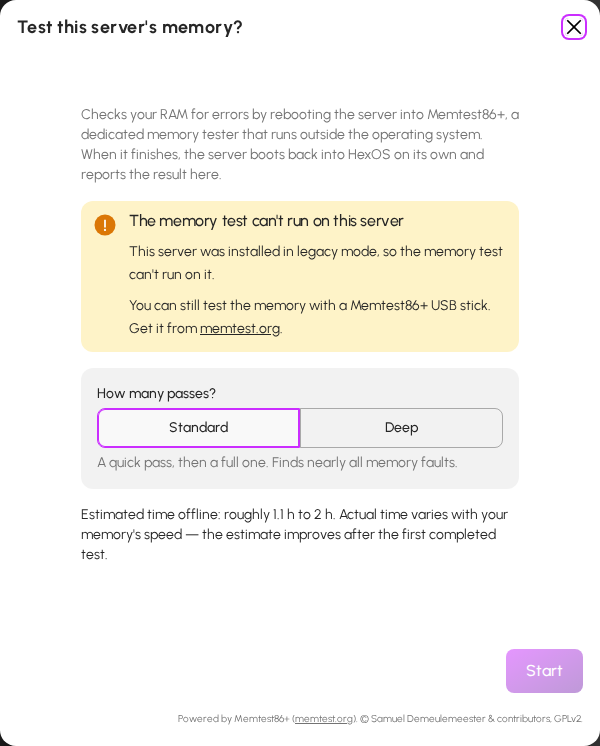
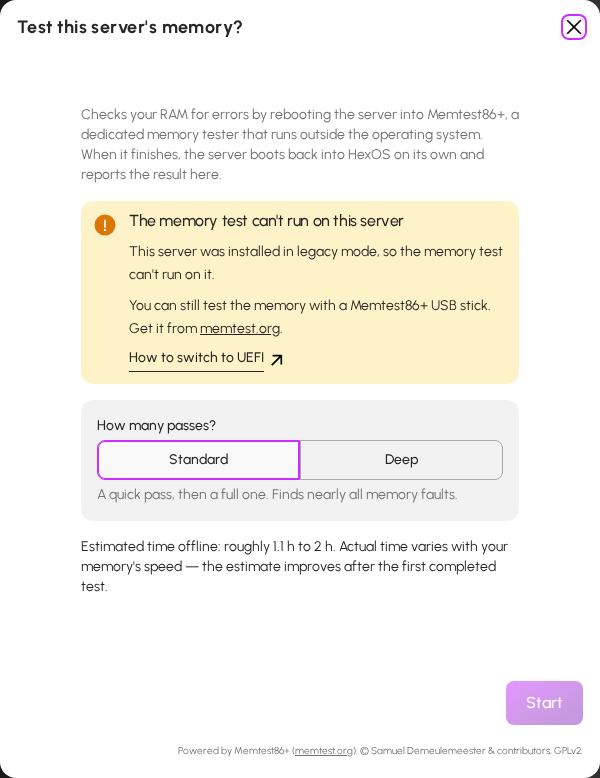
docs: Show the How to switch to UEFI link in the memory test messages

diff --git a/troubleshooting/uefi-boot-mode.md b/troubleshooting/uefi-boot-mode.md
@@ -58,7 +58,7 @@ If HexOS has already tested your model of motherboard, the message says which fi
 
 ### When you test memory
 
-**Test memory** is on the **Memory** info panel, and needs Expert mode turned on in **Settings**. If you click **Test memory** on a server installed in legacy mode, HexOS shows **The memory test can't run on this server** and the **Start** button stays off. You can still test the memory with a Memtest86+ USB drive. The message links to [memtest.org](https://memtest.org), where you can download it.
+**Test memory** is on the **Memory** info panel, and needs Expert mode turned on in **Settings**. If you click **Test memory** on a server installed in legacy mode, HexOS shows **The memory test can't run on this server** and the **Start** button stays off. You can still test the memory with a Memtest86+ USB drive. The message links to [memtest.org](https://memtest.org), where you can download it, and to this page through **How to switch to UEFI**.
 
 <details>
 <summary> The memory test can't run on this server </summary>
@@ -68,7 +68,7 @@ If HexOS has already tested your model of motherboard, the message says which fi
 
 ### On a new server's storage
 
-On a new server, HexOS locks the storage you created during setup until the memory test has run. In legacy mode the test cannot run, so the lock would never open. Wherever HexOS asks you to run the memory test or explains the lock, it shows the same message instead, with an **I understand** button. You also see it when you click **Skip for now** next to the memory test recommendation. Click **I understand**, and the memory test no longer locks your storage.
+On a new server, HexOS locks the storage you created during setup until the memory test has run. In legacy mode the test cannot run, so the lock would never open. Wherever HexOS asks you to run the memory test or explains the lock, it shows the same message instead, with the **How to switch to UEFI** link and an **I understand** button. You also see it when you click **Skip for now** next to the memory test recommendation. Click **I understand**, and the memory test no longer locks your storage.
 
 <details>
 <summary> I understand button </summary>
